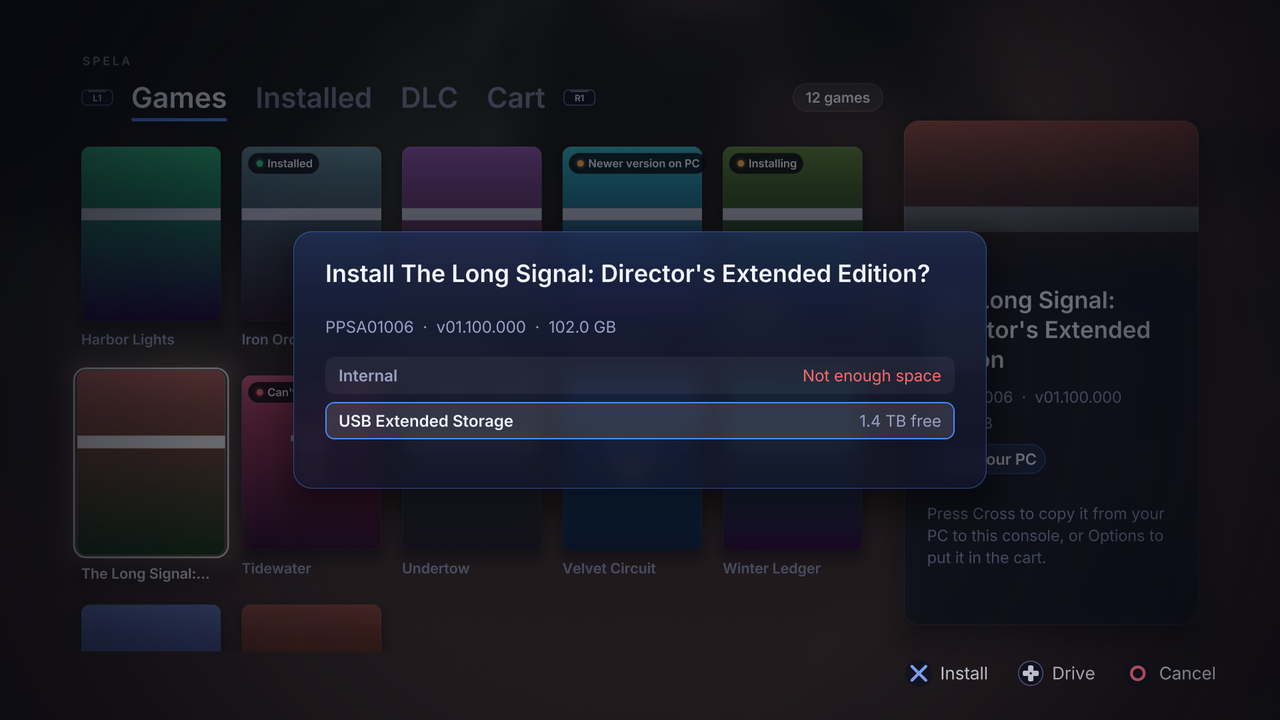
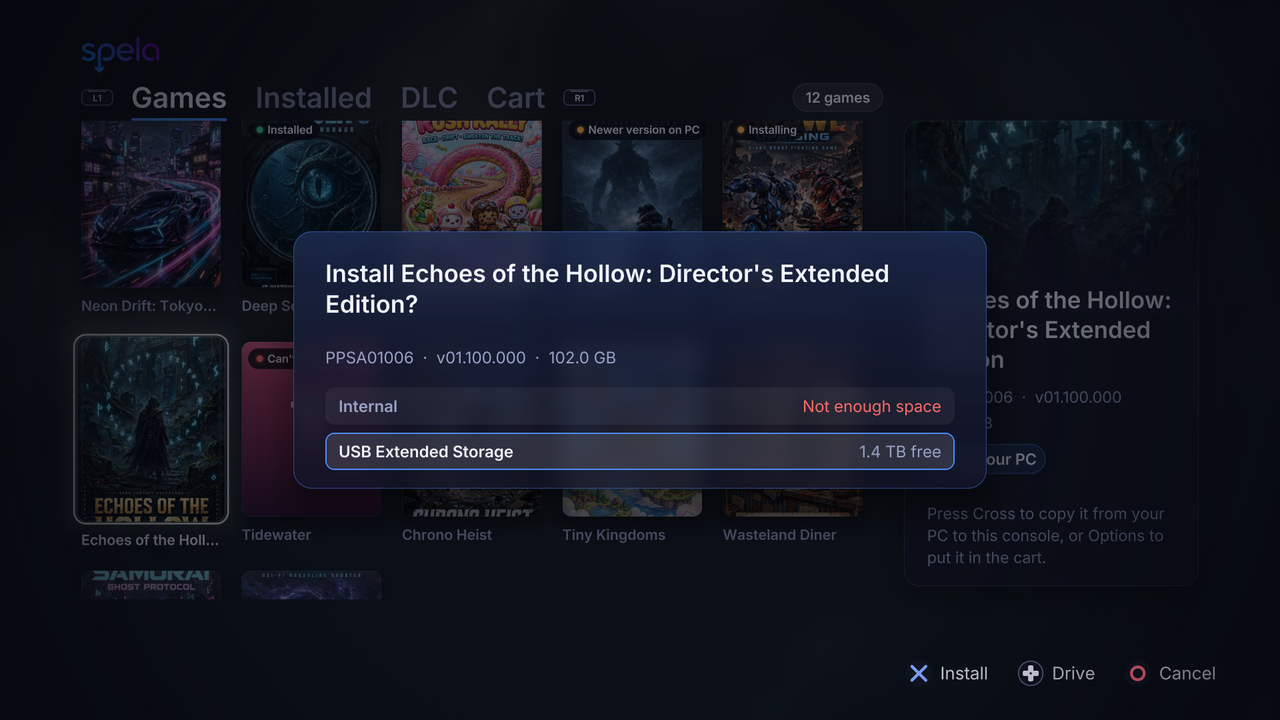
docs: invented posters for the demo library
The PC screenshots and the PS5 preview use eleven invented posters from
docs/screenshots/demo-covers. The screenshot script marks the demo
title IDs as not in PlayStation Store, so no real publisher or rating
shows up, and names demo folders like real dumps. The preview build
installs Pillow to cut the posters to cover size.

Changelog: skip

diff --git a/docs/screenshots/make_screenshots.py b/docs/screenshots/make_screenshots.py
@@ -1,4 +1,5 @@
-"""Regenerates the README screenshots from an invented library (fake titles, generated covers, a mock console).
+"""Regenerates the README screenshots from an invented library: invented games with invented posters (demo-covers/),
+and a mock console.
 
     python docs/screenshots/make_screenshots.py
 
@@ -26,19 +27,20 @@ PORT = 8799
 BASE = f"http://127.0.0.1:{PORT}"
 PASSWORD = "demo-password-1"
 
-GAMES = [  # title, title ID, version
-    ("Harbor Lights", "PPSA01234", "01.000.000"),
-    ("Iron Orchard", "PPSA01002", "01.020.000"),
-    ("Night Courier", "PPSA05678", "01.004.000"),
-    ("Pale Summit", "PPSA01004", "02.000.000"),
-    ("Small Hours", "PPSA01005", "01.000.000"),
-    ("The Long Signal", "PPSA01006", "01.100.000"),
-    ("Undertow", "PPSA01008", "01.000.000"),
-    ("Velvet Circuit", "PPSA01009", "01.002.000"),
-    ("Winter Ledger", "PPSA01010", "01.000.000"),
-    ("Yellow Line", "PPSA01011", "01.000.000"),
-    ("Zero Meridian", "PPSA01012", "01.010.000"),
-    ("Copper Tide", "PPSA01013", "01.000.000"),
+COVERS = OUT / "demo-covers"  # invented posters for invented games; console-app/preview_server.py uses them too
+GAMES = [  # title, title ID, version, poster in COVERS (None: a generated cover). The mock console has the 2nd and 3rd.
+    ("Neon Drift: Tokyo 2099", "PPSA01002", "01.000.000", "neon-drift"),
+    ("Deep Sea 9", "PPSA01234", "01.020.000", "deep-sea-9"),
+    ("Chrono Heist", "PPSA05678", "01.004.000", "chrono-heist"),
+    ("Frostline: Expedition Zero", "PPSA01004", "02.000.000", "frostline"),
+    ("Mecha Brawl: Uprising", "PPSA01005", "01.000.000", "mecha-brawl"),
+    ("Echoes of the Hollow", "PPSA01006", "01.100.000", "echoes-of-the-hollow"),
+    ("Sugar Rush Rally", "PPSA01008", "01.000.000", "sugar-rush-rally"),
+    ("Wasteland Diner", "PPSA01009", "01.002.000", "wasteland-diner"),
+    ("Neon Samurai: Ghost Protocol", "PPSA01010", "01.000.000", "neon-samurai"),
+    ("Void Runners", "PPSA01011", "01.000.000", "void-runners"),
+    ("Tiny Kingdoms", "PPSA01012", "01.010.000", "tiny-kingdoms"),
+    ("Willow Creek", "PPSA01013", "01.000.000", None),
 ]
 
 
@@ -76,20 +78,27 @@ def cover(seed: int, title: str) -> bytes:
 
 
 def seed(library: Path):
-    for i, (title, tid, version) in enumerate(GAMES):
-        sys_dir = library / title / "sce_sys"
-        sys_dir.mkdir(parents=True)
-        (sys_dir / "param.json").write_text(json.dumps({
+    for i, (title, tid, version, _) in enumerate(GAMES):
+        folder = library / f"{title.replace(':', '')} [{tid}]"  # Windows folder names can't hold ":"
+        (folder / "sce_sys").mkdir(parents=True)
+        (folder / "sce_sys" / "param.json").write_text(json.dumps({
             "titleId": tid, "contentId": f"EP0001-{tid}_00-DEMO000000000000", "contentVersion": version,
             "localizedParameters": {"defaultLanguage": "en-US", "en-US": {"titleName": title}},
         }))
-        (library / title / "eboot.bin").write_bytes(b"\0" * (1 + i) * 4096)
+        (folder / "eboot.bin").write_bytes(b"\0" * (1 + i) * 4096)
 
 
 def main():
     work = Path(tempfile.mkdtemp(prefix="spela-shots-"))
     library = work / "Library"
     seed(library)
+    # Invented title IDs can belong to real games: mark each as "not in PlayStation Store" in the app's store cache
+    # (backend/app/logos.py), so no real publisher, genre or rating ends up in the screenshots.
+    store = work / "data" / "store"
+    store.mkdir(parents=True)
+    for _, tid, _, _ in GAMES:
+        (store / f"{tid}.json").write_text("{}")
+        (store / f"{tid}.none").touch()
     env = {**os.environ, "DATA_DIR": str(work / "data"), "PORT": str(PORT), "HOST": "127.0.0.1",
            "SCAN_INTERVAL_MINUTES": "0", "STATIC_DIR": str(ROOT / "frontend" / "dist")}
     server = subprocess.Popen([sys.executable, "-m", "uvicorn", "app.main:app", "--port", str(PORT)],
@@ -103,22 +112,6 @@ def main():
                 time.sleep(0.5)
         c = httpx.Client(base_url=f"{BASE}/api/v1", timeout=30)
         c.post("/auth/setup", json={"password": PASSWORD}).raise_for_status()
-        c.post("/library/roots", json={"path": str(library)}).raise_for_status()
-        c.post("/library/scan")
-        for _ in range(60):
-            s = c.get("/library/scan-status").json()
-            if not s.get("running"):
-                break
-            time.sleep(0.5)
-        games = c.get("/games").json()
-        for i, g in enumerate(games):
-            c.post(f"/games/{g['id']}/cover", files={"file": ("c.png", cover(i + 1, g["title"]), "image/png")})
-        r = c.post("/consoles", json={"name": "Living Room PS5", "ip_address": "192.168.1.50",
-                                      "connection_type": "mock", "port": 9021})
-        r.raise_for_status()
-        console = r.json()["id"]
-        c.post(f"/consoles/{console}/rescan")
-
         with sync_playwright() as p:
             browser = p.chromium.launch(channel="msedge")
             page = browser.new_page(viewport={"width": 1400, "height": 900}, device_scale_factor=1)
@@ -141,9 +134,38 @@ def main():
                 page.wait_for_timeout(wait_ms)
                 snap(name, height)
 
+            # the guide as a new user first sees it; shot before anything is added, so it never looks for a real PS5
+            page.set_viewport_size({"width": 1000, "height": 900})
+            page.goto(f"{BASE}/#/setup")
+            page.wait_for_selector("text=Get started")
+            page.wait_for_timeout(800)
+            page.screenshot(path=str(OUT / "setup.png"))
+            print("wrote setup")
+
+            c.post("/library/roots", json={"path": str(library)}).raise_for_status()
+            c.post("/library/scan")
+            for _ in range(60):
+                s = c.get("/library/scan-status").json()
+                if not s.get("running"):
+                    break
+                time.sleep(0.5)
+            posters = {title: poster for title, _, _, poster in GAMES}
+            for i, g in enumerate(c.get("/games").json()):
+                if poster := posters.get(g["title"]):
+                    file = ("c.jpg", (COVERS / f"{poster}.jpg").read_bytes(), "image/jpeg")
+                else:
+                    file = ("c.png", cover(i + 1, g["title"]), "image/png")
+                c.post(f"/games/{g['id']}/cover", files={"file": file})
+            r = c.post("/consoles", json={"name": "Living Room PS5", "ip_address": "192.168.1.50",
+                                          "connection_type": "mock", "port": 9021})
+            r.raise_for_status()
+            console = r.json()["id"]
+            c.post(f"/consoles/{console}/rescan")
+            c.post("/setup", json={"dismissed": True})  # keep the setup card off the Dashboard shot
+
             shot("dashboard", "/dashboard", 700)
             shot("library", "/")
-            page.get_by_text("Pale Summit").first.click()
+            page.get_by_text("Neon Drift: Tokyo 2099").first.click()
             page.wait_for_timeout(1500)
             snap("game")
             browser.close()

diff --git a/console-app/preview_server.py b/console-app/preview_server.py
@@ -1,32 +1,49 @@
 """A stand-in for the PC app's console API, for build.ps1 -Preview. Invented games in every state.
-The real API is console_api in backend/app/main.py; keep the line format in step with it."""
+The real API is console_api in backend/app/main.py; keep the line format in step with it.
+Needs Pillow (python3-pil, which build.sh installs for the preview) for the invented posters."""
 import sys
 from http.server import BaseHTTPRequestHandler, ThreadingHTTPServer
+from pathlib import Path
+
+from PIL import Image, ImageOps
 
 W, H = 256, 320
 GAMES = [  # id, title, title ID, version, size, state, progress, has cover, kind, format[, done, total, rate, eta, step]
-    ["g01", "Harbor Lights", "PPSA01001", "01.000.000", 41_200_000_000, "installable", "", "1", "game", "folder_dump"],
-    ["g02", "Iron Orchard", "PPSA01002", "01.020.000", 88_900_000_000, "installed", "", "1", "game", "image"],
-    ["g03", "Night Courier", "PPSA01003", "01.004.000", 23_400_000_000, "installable", "", "1", "game", "image"],
-    ["g04", "Pale Summit", "PPSA01004", "02.000.000", 65_000_000_000, "update", "", "1", "game", "folder_dump"],
-    ["g05", "Small Hours", "PPSA01005", "01.000.000", 7_800_000_000, "installing", "0.420", "1", "game", "image",
+    ["g01", "Neon Drift: Tokyo 2099", "PPSA01001", "01.000.000", 41_200_000_000, "installable", "", "1", "game", "folder_dump"],
+    ["g02", "Deep Sea 9", "PPSA01002", "01.020.000", 88_900_000_000, "installed", "", "1", "game", "image"],
+    ["g03", "Sugar Rush Rally", "PPSA01003", "01.004.000", 23_400_000_000, "installable", "", "1", "game", "image"],
+    ["g04", "Frostline: Expedition Zero", "PPSA01004", "02.000.000", 65_000_000_000, "update", "", "1", "game", "folder_dump"],
+    ["g05", "Mecha Brawl: Uprising", "PPSA01005", "01.000.000", 7_800_000_000, "installing", "0.420", "1", "game", "image",
      3_276_000_000, 7_800_000_000, 84_600_000, 53, "Copying to USB Extended Storage."],
-    ["g06", "The Long Signal: Director's Extended Edition", "PPSA01006", "01.100.000", 102_000_000_000, "installable", "", "1",
+    ["g06", "Echoes of the Hollow: Director's Extended Edition", "PPSA01006", "01.100.000", 102_000_000_000, "installable", "", "1",
      "game", "folder_dump"],
     ["g07", "Tidewater", "CUSA01007", "01.05", 12_100_000_000,
      "blocked:This console has no package installer. Only folder dumps and disc images can be installed.", "", "0", "game", "ps4_pkg"],
-    ["g08", "Undertow", "PPSA01008", "01.000.000", 30_500_000_000, "queued", "", "1", "game", "image"],
-    ["g09", "Velvet Circuit", "PPSA01009", "01.002.000", 19_900_000_000, "installable", "", "0", "game", "image"],
-    ["g10", "Winter Ledger", "PPSA01010", "01.000.000", 54_300_000_000, "installable", "", "1", "game", "image"],
-    ["g11", "Yellow Line", "PPSA01011", "01.000.000", 8_200_000_000, "installable", "", "1", "game", "image"],
-    ["g12", "Zero Meridian", "PPSA01012", "01.010.000", 71_700_000_000, "installable", "", "1", "game", "image"],
-    ["d01", "Iron Orchard: Season Pass", "PPSA01002", "", 2_100_000_000, "installable", "", "1", "dlc", "unlocker"],
-    ["d02", "Pale Summit: Ridge Pack", "PPSA01004", "01.000.000", 900_000_000, "installable", "", "0", "dlc", "ps5_pkg"],
+    ["g08", "Chrono Heist", "PPSA01008", "01.000.000", 30_500_000_000, "queued", "", "1", "game", "image"],
+    ["g09", "Tiny Kingdoms", "PPSA01009", "01.002.000", 19_900_000_000, "installable", "", "1", "game", "image"],
+    ["g10", "Wasteland Diner", "PPSA01010", "01.000.000", 54_300_000_000, "installable", "", "1", "game", "image"],
+    ["g11", "Neon Samurai: Ghost Protocol", "PPSA01011", "01.000.000", 8_200_000_000, "installable", "", "1", "game", "image"],
+    ["g12", "Void Runners", "PPSA01012", "01.010.000", 71_700_000_000, "installable", "", "1", "game", "image"],
+    ["d01", "Deep Sea 9: Abyss Season Pass", "PPSA01002", "", 2_100_000_000, "installable", "", "1", "dlc", "unlocker"],
+    ["d02", "Frostline: Whiteout Pack", "PPSA01004", "01.000.000", 900_000_000, "installable", "", "0", "dlc", "ps5_pkg"],
 ]
 DRIVES = [  # id, label, free, total
     ["dr1", "Internal", 61_000_000_000, 825_000_000_000],
     ["dr2", "USB Extended Storage", 1_420_000_000_000, 2_000_000_000_000],
 ]
+
+
+# The posters docs/screenshots/make_screenshots.py uses too; games without one get a generated gradient.
+POSTERS = {"g01": "neon-drift", "g02": "deep-sea-9", "g03": "sugar-rush-rally", "g04": "frostline", "g05": "mecha-brawl",
+           "g06": "echoes-of-the-hollow", "g08": "chrono-heist", "g09": "tiny-kingdoms", "g10": "wasteland-diner",
+           "g11": "neon-samurai", "g12": "void-runners", "d01": "deep-sea-9"}
+POSTER_DIR = Path(__file__).resolve().parent.parent / "docs" / "screenshots" / "demo-covers"
+
+
+def poster(name: str) -> bytes:
+    """Cut to the console app's cover size the way the PC app does (ImageOps.fit, backend/app/main.py)."""
+    with Image.open(POSTER_DIR / f"{name}.jpg") as im:
+        return ImageOps.fit(im.convert("RGBA"), (W, H)).tobytes()
 
 
 def cover(seed: int) -> bytes:
@@ -69,7 +86,8 @@ class Handler(BaseHTTPRequestHandler):
             gid = self.path.rsplit("/", 1)[1]
             idx = next((i for i, g in enumerate(GAMES) if g[0] == gid), None)
             if idx is not None and GAMES[idx][7] == "1":
-                return self._send(200, cover(idx + 3), "application/octet-stream")
+                data = poster(POSTERS[gid]) if gid in POSTERS else cover(idx + 3)
+                return self._send(200, data, "application/octet-stream")
         if self.path.startswith("/api/v1/console-app/removals/"):  # still running on the first ask, then done
             game = next((g for g in GAMES if g[0] == self.path.rsplit("/", 1)[1].removeprefix("rm-")), None)
             if game:

diff --git a/README.md b/README.md
@@ -52,7 +52,7 @@ Browse them on your PC, install them to your console over your home network, rem
   </tr>
 </table>
 
-<sub>The screenshots show invented games with generated covers. `docs/screenshots/make_screenshots.py` rebuilds the PC ones from a demo library.</sub>
+<sub>The screenshots show invented games with invented posters, kept in `docs/screenshots/demo-covers/`. `docs/screenshots/make_screenshots.py` rebuilds the PC ones from a demo library, and `./console-app/build.ps1 -Preview` renders the PS5 ones.</sub>
 
 ## What you need
 
